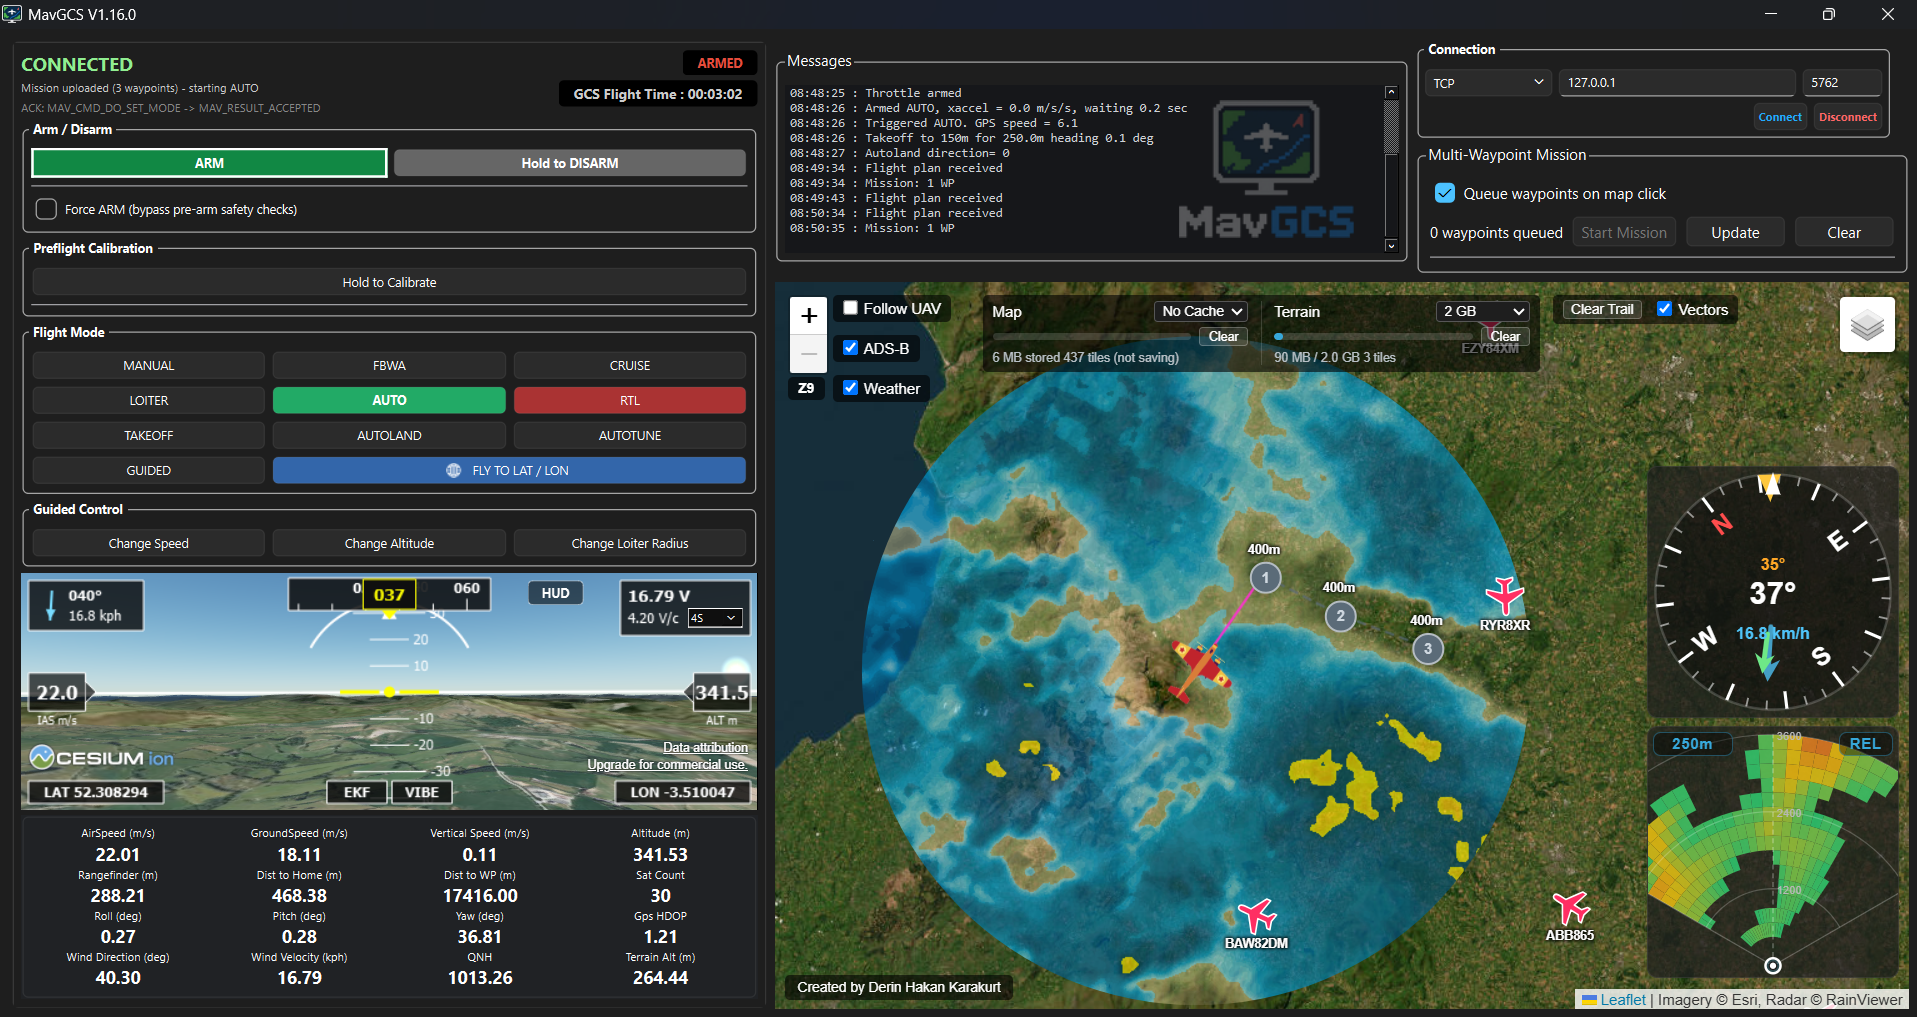
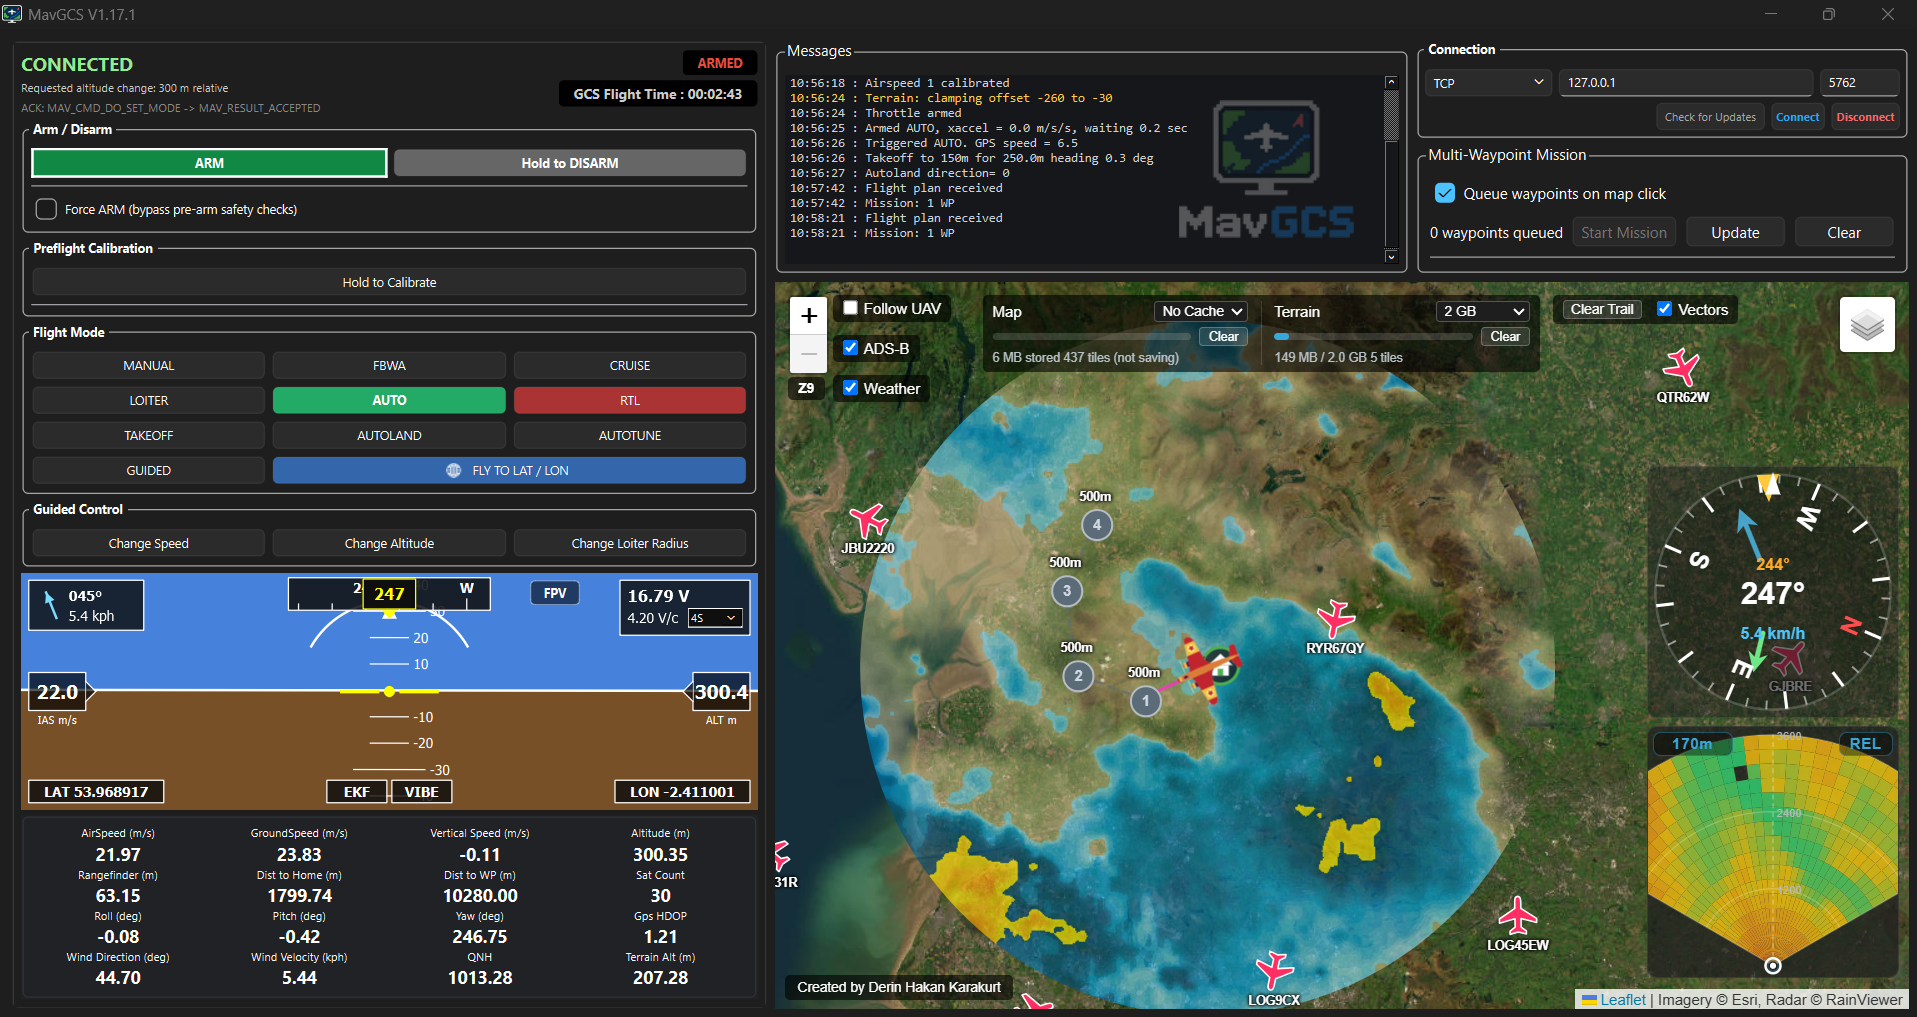
Mark home on the map
ArduPilot sets home when the vehicle arms and announces it once. Once is
a weak guarantee over a radio link that drops packets, and missing it
would mean no marker for the whole flight - so the link asks again on the
disarmed-to-armed transition as well as at connect. The connect-time
request is what covers finding a vehicle already armed and flying: it is
asked directly rather than waiting for an announcement that has already
been and gone.

The marker sits under the aircraft and waypoints. It is a reference
point, and it should never hide the thing being watched.

Also: the compass lets more of the map through, since it is a dial read
against the terrain rather than a data display needing its own ground -
the terrain radar below it keeps the more opaque backing for that reason.

diff --git a/map_view.py b/map_view.py
@@ -47,10 +47,13 @@ LEAFLET_HTML = """
   }
   #compass {
     /* Directly above the terrain radar (which is 200px tall at bottom:26px),
-       same size and styling so the two read as one stack of instruments. */
+       same size and position so the two read as one stack of instruments.
+       Deliberately more transparent than the radar: that one is a data
+       display which needs its own ground, while this is a dial you read
+       against the map underneath it. */
     position: absolute; bottom: 234px; right: 8px;
     width: 200px; height: 200px;
-    background: rgba(30,30,30,0.75);
+    background: rgba(30,30,30,0.50);
     border: 1px solid rgba(255,255,255,0.08);
     border-radius: 8px;
     z-index: 1000;
@@ -58,7 +61,7 @@ LEAFLET_HTML = """
     font-family: sans-serif;
   }
   #compass svg { display: block; width: 100%; height: 100%; }
-  #compass .cp-face { fill: rgba(0,0,0,0.35); }
+  #compass .cp-face { fill: rgba(0,0,0,0.22); }
   #compass .cp-rim { fill: none; stroke: rgba(255,255,255,0.18); stroke-width: 2; }
   #compass .cp-tick { stroke: rgba(255,255,255,0.55); stroke-width: 1.5; }
   #compass .cp-tick.major { stroke: #ffffff; stroke-width: 2.5; }
@@ -664,6 +667,42 @@ var allWaypointLayers = [waypointLine];
 // The batch currently sitting on the vehicle. Sending a new mission
 // replaces it, on the map as well as on the aircraft.
 var sentLayers = [];
+
+// Where the vehicle will return to. Drawn beneath the aircraft and the
+// waypoints - it is a reference point, not something you interact with, and
+// it must never hide the thing you are actually watching.
+var homeMarker = null;
+var homeIcon = L.divIcon({
+    className: 'home-icon',
+    html: '<svg width="34" height="34" viewBox="0 0 28 28">' +
+          '<circle cx="14" cy="14" r="12" fill="rgba(20,20,20,0.72)" ' +
+          'stroke="#4caf50" stroke-width="2"/>' +
+          '<path d="M14 6 L22 13.5 L6 13.5 Z" fill="#ffffff"/>' +
+          '<rect x="8.5" y="13.5" width="11" height="7" fill="#ffffff"/>' +
+          '<rect x="12.2" y="16" width="3.6" height="4.5" fill="#4caf50"/>' +
+          '</svg>',
+    iconSize: [34, 34],
+    iconAnchor: [17, 17]
+});
+
+function setHome(lat, lon) {
+    var ll = [lat, lon];
+    if (homeMarker === null) {
+        homeMarker = L.marker(ll, {icon: homeIcon, zIndexOffset: -500,
+                                   interactive: true}).addTo(map);
+    } else {
+        homeMarker.setLatLng(ll);
+    }
+    homeMarker.bindTooltip('Home ' + lat.toFixed(6) + ', ' + lon.toFixed(6),
+                           {direction: 'top', offset: [0, -14]});
+}
+
+function clearHome() {
+    if (homeMarker !== null) {
+        map.removeLayer(homeMarker);
+        homeMarker = null;
+    }
+}
 
 // `sent` draws the muted version used for a mission already uploaded.
 // Numbering restarts at 1 for each mission because that is what the
@@ -1800,6 +1839,13 @@ class MapView(QWebEngineView):
         self.page().runJavaScript(
             f"setNavTarget({float(bearing_deg)}, {float(distance_m)});"
         )
+
+    def set_home(self, lat: float, lon: float):
+        """Place (or move) the home marker."""
+        self.page().runJavaScript(f"setHome({float(lat)}, {float(lon)});")
+
+    def clear_home(self):
+        self.page().runJavaScript("clearHome();")
 
     def set_home_bearing(self, bearing_deg: float):
         """Which way home lies, for the compass arrow. Negative hides it."""

diff --git a/mavlink_link.py b/mavlink_link.py
@@ -126,6 +126,9 @@ class MavlinkLink(QThread):
     # is close enough that the bearing is meaningless.
     home_bearing_update = Signal(float)          # deg, or -1
 
+    # Where home actually is, for the map marker.
+    home_position_update = Signal(float, float)  # lat, lon
+
     def __init__(self, connection_string="udpin:0.0.0.0:14550", parent=None):
         """
         connection_string examples:
@@ -147,6 +150,9 @@ class MavlinkLink(QThread):
         # State for values MAVLink doesn't hand us directly - we compute
         # these ourselves from other messages (see run()).
         self._home_lat = None
+        # Arming is when ArduPilot sets home, so an arm is the cue to ask
+        # again rather than trust that the announcement reached us.
+        self._was_armed = False
         self._home_lon = None
         self._last_amsl_alt_m = None  # from GLOBAL_POSITION_INT.alt (AMSL)
         self._gps_fix_type = None  # from GPS_RAW_INT.fix_type, used by the EKF status color
@@ -519,8 +525,17 @@ class MavlinkLink(QThread):
                 self.wind_update.emit(direction_from, speed)
 
             elif mtype == "HOME_POSITION":
-                self._home_lat = msg.latitude / 1e7
-                self._home_lon = msg.longitude / 1e7
+                lat = msg.latitude / 1e7
+                lon = msg.longitude / 1e7
+                moved = (self._home_lat is None
+                         or abs(lat - self._home_lat) > 1e-7
+                         or abs(lon - self._home_lon) > 1e-7)
+                self._home_lat = lat
+                self._home_lon = lon
+                # Only on a real change: this arrives again every time it is
+                # re-requested, and redrawing an unmoved marker is noise.
+                if moved:
+                    self.home_position_update.emit(lat, lon)
 
             elif mtype == "GPS_RAW_INT":
                 sat_count = "--" if msg.satellites_visible == 255 else str(msg.satellites_visible)
@@ -686,6 +701,30 @@ class MavlinkLink(QThread):
                     msg.base_mode & mavutil.mavlink.MAV_MODE_FLAG_SAFETY_ARMED
                 )
                 self.status_update.emit({"mode": mode, "armed": "YES" if armed else "no"})
+
+                # ArduPilot sets home at arming and announces it once. Once
+                # is not much of a guarantee over a radio link that drops
+                # packets, and missing it means no home marker for the whole
+                # flight - so ask directly on the transition.
+                if armed and not self._was_armed:
+                    self._request_home()
+                self._was_armed = armed
+
+    def _request_home(self):
+        """Ask the vehicle to send HOME_POSITION now."""
+        if self.master is None:
+            return
+        try:
+            with self._send_lock:
+                self.master.mav.command_long_send(
+                    self.master.target_system,
+                    self.master.target_component,
+                    mavutil.mavlink.MAV_CMD_GET_HOME_POSITION,
+                    0, 0, 0, 0, 0, 0, 0, 0,
+                )
+        except Exception:
+            # Best effort: the marker simply waits for the next arm.
+            pass
 
     # Force-arm/disarm magic value per MAV_CMD_COMPONENT_ARM_DISARM's spec:
     # bypasses ArduPilot's pre-arm safety checks.

diff --git a/main.py b/main.py
@@ -1954,6 +1954,9 @@ class MainWindow(QMainWindow):
     def on_home_bearing(self, bearing_deg):
         self.map_view.set_home_bearing(bearing_deg)
 
+    def on_home_position(self, lat, lon):
+        self.map_view.set_home(lat, lon)
+
     def on_position(self, lat, lon, alt, heading):
         self.horizon.set_altitude(alt)
         self.horizon.set_heading(heading)
@@ -2695,6 +2698,8 @@ class MainWindow(QMainWindow):
         # A new connection is a new flight: start with a clean trail rather
         # than drawing this one on top of the last one's.
         self.map_view.clear_trail()
+        # Home belongs to the vehicle we were talking to, not the next one.
+        self.map_view.clear_home()
         self.link = MavlinkLink(connection_string)
         self.link.attitude_update.connect(self.on_attitude)
         self.link.position_update.connect(self.on_position)
@@ -2702,6 +2707,7 @@ class MainWindow(QMainWindow):
         self.link.nav_target_update.connect(self.on_nav_target)
         self.link.turn_rate_update.connect(self.on_turn_rate)
         self.link.home_bearing_update.connect(self.on_home_bearing)
+        self.link.home_position_update.connect(self.on_home_position)
         self.link.vfr_update.connect(self.on_vfr)
         self.link.wind_update.connect(self.on_wind)
         self.link.status_update.connect(self.on_status)
